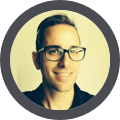
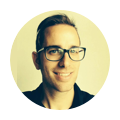
Back to white...

Changed region(s): [[0.0, 0.0, 1.0, 1.0]]

diff --git a/assets/css/_general.css.sass b/assets/css/_general.css.sass
@@ -1,59 +1,79 @@
 @import "compass"
 @import "assets/css/mixins.sass"
 
+// ----------------------------------------------------------------------------
+// General Body Stuff
+
 html, body
   min-height: 100%
 
 body
-  background-color: #1E2127
-  +background-image(linear-gradient(#282C33, #1E2127))
+  background-color: #fff
+  +background-image(linear-gradient(#F7FAFC, #fff))
   background-size: 100% 500px
   background-repeat: no-repeat
   font:
-    family: "jaf-facitweb", "Helvetica Neue", Helvetica, Arial, Verdana, sans-serif
+    family: "museo-sans", "Helvetica Neue", Helvetica, Arial, Verdana, sans-serif
     size: 16px
     weight: 500
-  color: #989DB6
+  color: #565C72
   line-height: 30px
-
-// Use image for background gradient in webkit browsers...
-// Banding is shown in webkit, it's ugly
-@media screen and (-webkit-min-device-pixel-ratio:0)
-  body
-    +background-image-retina('../assets/img/bg-gradient', 'png', 50px, 500px)
-    background-repeat: repeat-x
-    background-position: top center
-
-a
-  color: #fff
-  text-decoration: none
-  +experimental('transition', all 250ms cubic-bezier(.18, .85, .47, 1.01))
-
-a:visited
-  color: #D4D8E9
-
-a:hover
-  color: #F7CF8B
-
-p
-  a
-    border-bottom: 2px solid #2F343D
-
-  a:hover
-    border-bottom: 2px solid rgba(166,172,195,.3)
-
-  &:after
 
 .wrapper
   width: 960px
   margin: 0 auto
+  +experimental('transition', padding 250ms)
+
+
+@media screen and (max-width: 1100px)
+  .wrapper
+    width: auto
+    padding: 0 60px
+
+@media screen and (max-width: 600px)
+  .wrapper
+    width: auto
+    padding: 0 20px
+
+
+
+// ----------------------------------------------------------------------------
+// General Text & Link Colors
+a
+  color: #36373d
+  text-decoration: none
+  +experimental('transition', all 250ms cubic-bezier(.18, .85, .47, 1.01))
+
+a:visited
+  color: #505158
+
+a:hover
+  color: #2A93DD
+
+p
+  a
+    border-bottom: 2px solid #D6E1E8
+
+  a:hover
+    border-bottom: 2px solid #2A93DD
+    border-bottom: 2px solid rgba(42,147,221,.3)
 
 em
   font-style: italic
 
 strong
-  color: #fff
+  color: #36373D
 
+// ----------------------------------------------------------------------------
+// Header
+header
+  position: fixed
+  padding: 30px
+  font-weight: 200
+  font-size: 20px
+
+// ----------------------------------------------------------------------------
+// Footer
 footer
   text-align: center
   font-size: 14px

diff --git a/assets/css/_index.css.sass b/assets/css/_index.css.sass
@@ -17,7 +17,7 @@
 
   .wrapper
     > h2
-      color: #fff
+      color: #36373D
       font-size: 22px
       text-align: center
       margin: 0 auto 40px
@@ -33,7 +33,7 @@
   .mini-me
     width: 100%
     height: 60px
-    border-bottom: 1px solid #3B414D
+    border-bottom: 1px solid #D6E1E8
     margin: 0 0 (60px + 40px)
 
     a,
@@ -65,7 +65,7 @@
         margin-right: 4%
 
     h3
-      color: #fff
+      color: #36373D
       font-size: 22px
       line-height: 30px
       margin: 0 0 20px
@@ -81,7 +81,7 @@
   // --------------------------------------------------------------------------
   // Floormat
   .floormat
-    background: #272A31
+    background: #f9f9f9
     padding: 50px 0
 
     .two-columns > li
@@ -92,7 +92,7 @@
       margin: 0 0 0 25%
 
       li:not(:last-child)
-        border-bottom: 1px solid #3B414D
+        border-bottom: 1px solid #d6e1e8
 
       a
         display: block
@@ -103,6 +103,6 @@
           float: right
 
         &:hover
-          background: rgba(130,136,163,.1)
-          color: #F7CF8B
+          background: rgba(130,136,163,.05)
+          color: #2A93DD
 

diff --git a/assets/css/_post.css.sass b/assets/css/_post.css.sass
@@ -1,0 +1,28 @@
+.post
+  .markdown
+    padding: 30px 0
+
+    h1
+      color: #fff
+      font-size: 22px
+      line-height: 30px
+      margin: 0 0 20px
+
+    h2
+      font-size: 18px
+      line-height: 30px
+      margin: 0 0 20px
+
+    h3
+      color: #fff
+      font-size: 18px
+      line-height: 30px
+      margin: 0 0 20px
+
+    p
+      margin: 0 0 20px
+
+  footer
+    max-width: 960px
+    border-top: 1px solid #3b414d
+    margin: 0 auto

diff --git a/assets/css/_index-mini-me.css.sass b/assets/css/_index-mini-me.css.sass
@@ -4,9 +4,9 @@
   0%
     +experimental('transform', scale(1))
   60%
-    +experimental('transform', scale(1.20))
+    +experimental('transform', scale(1.07))
   100%
-    +experimental('transform', scale(1.10))
+    +experimental('transform', scale(1.05))
 
 @-webkit-keyframes mini-me-zoom-in
   +mini-me-zoom-in
